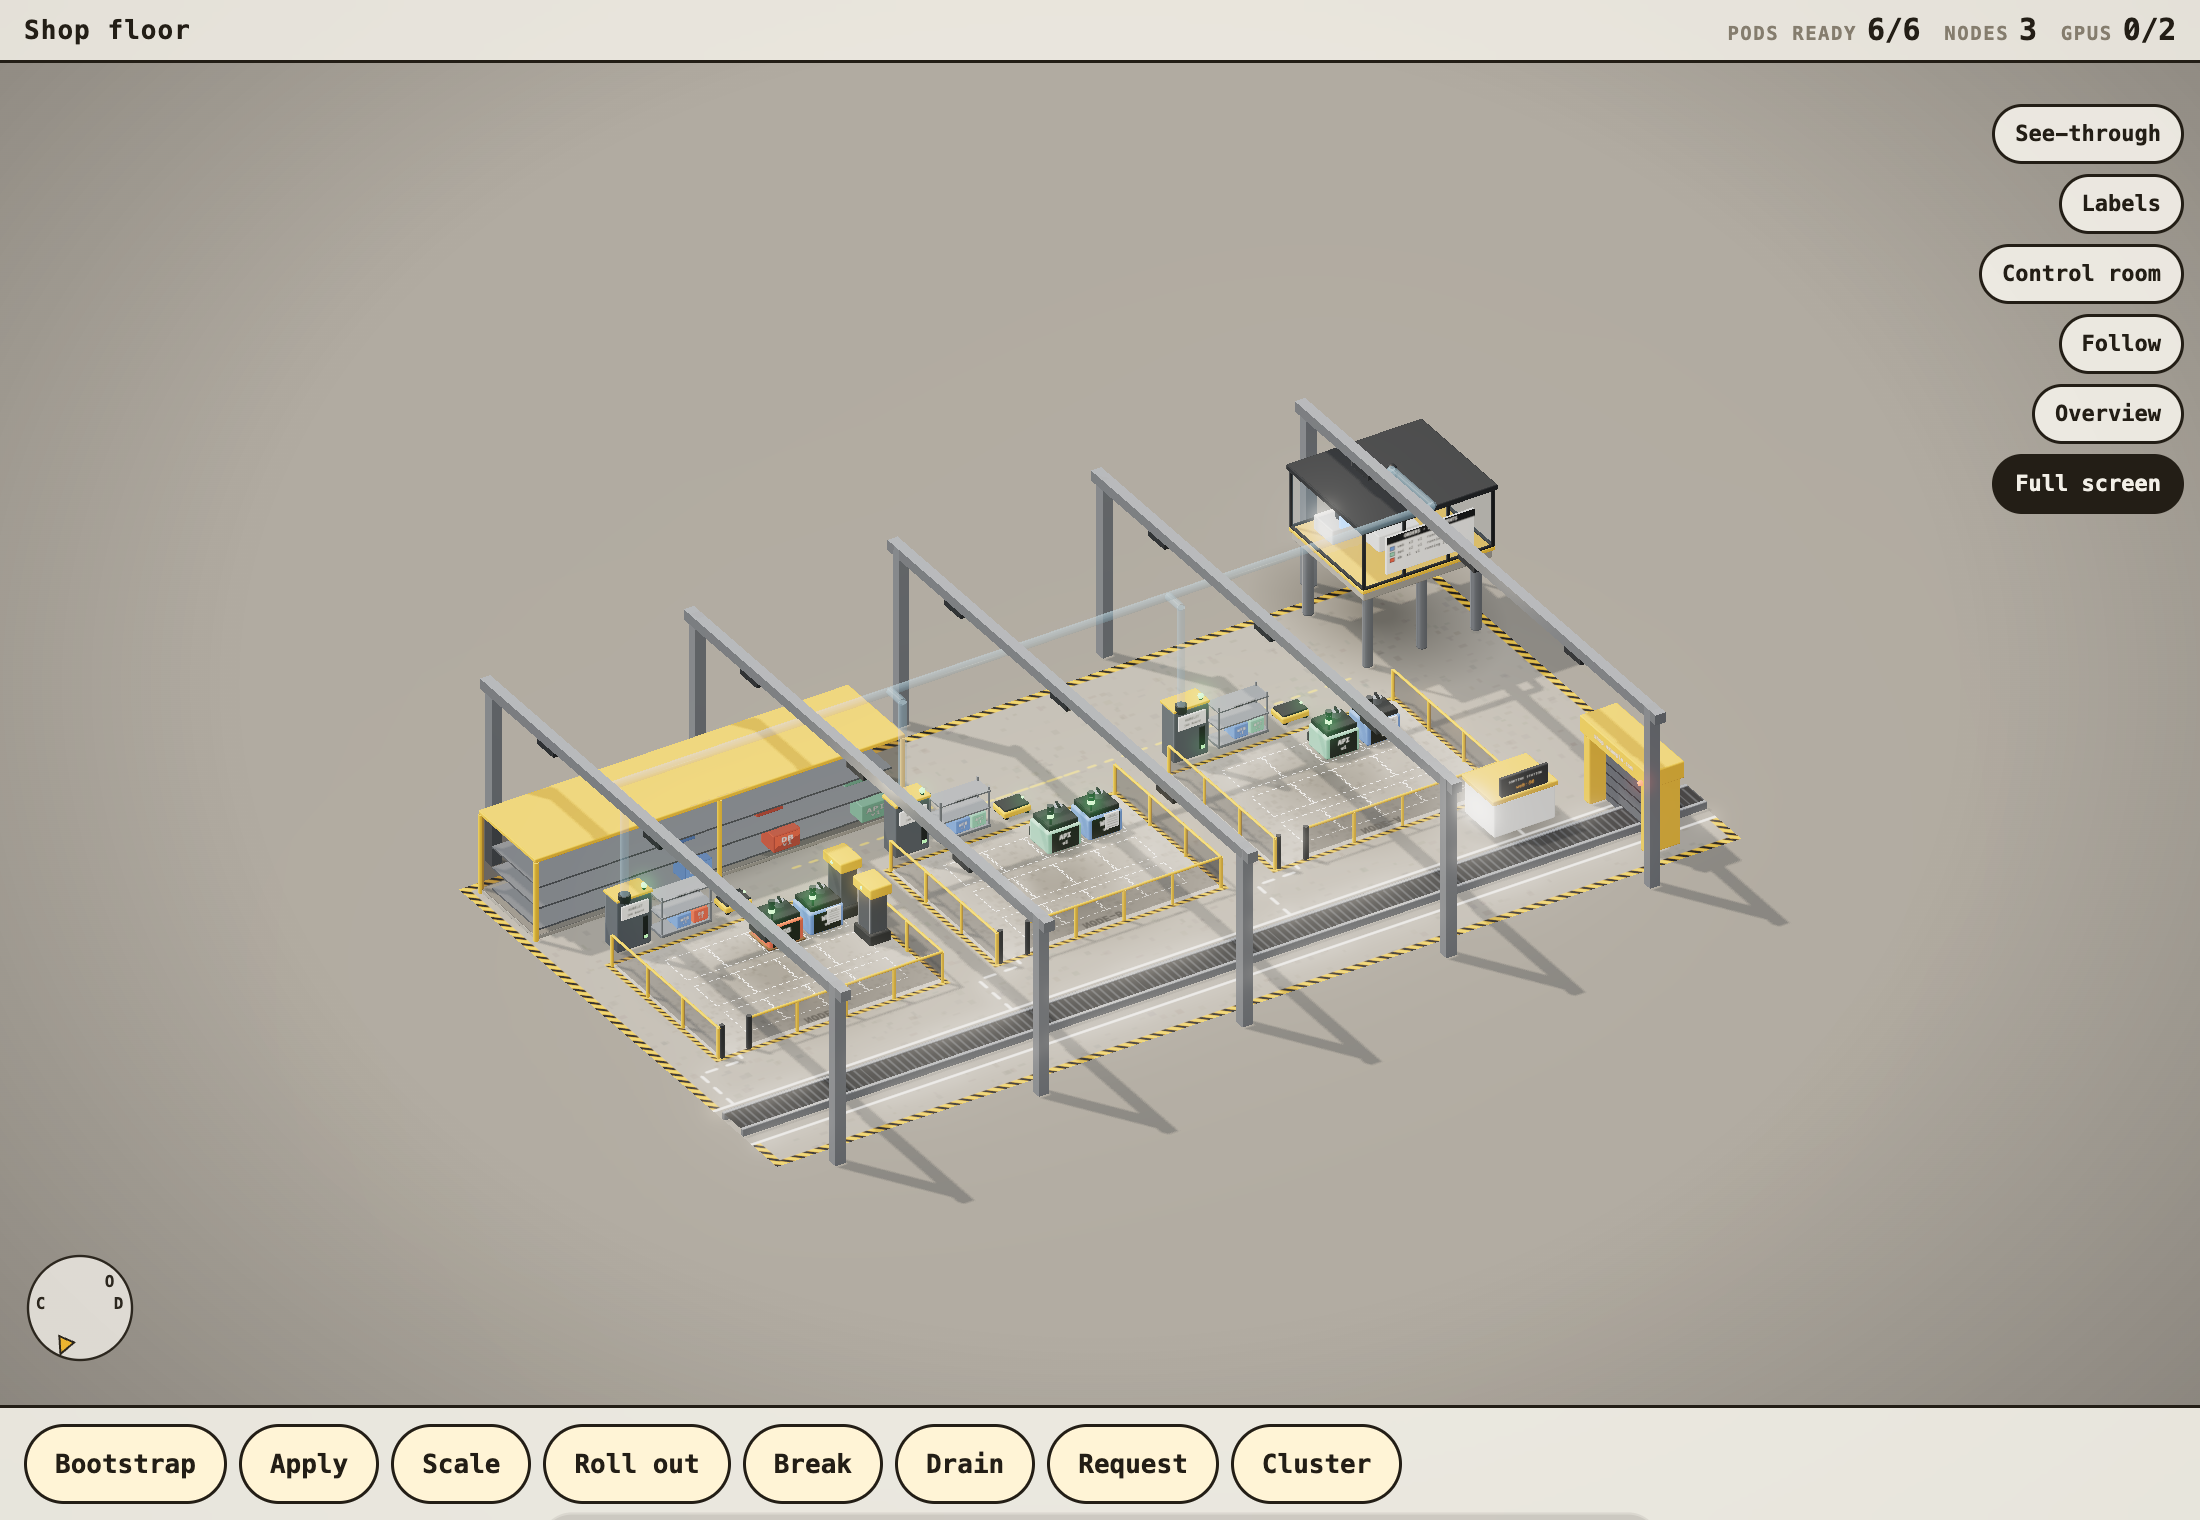
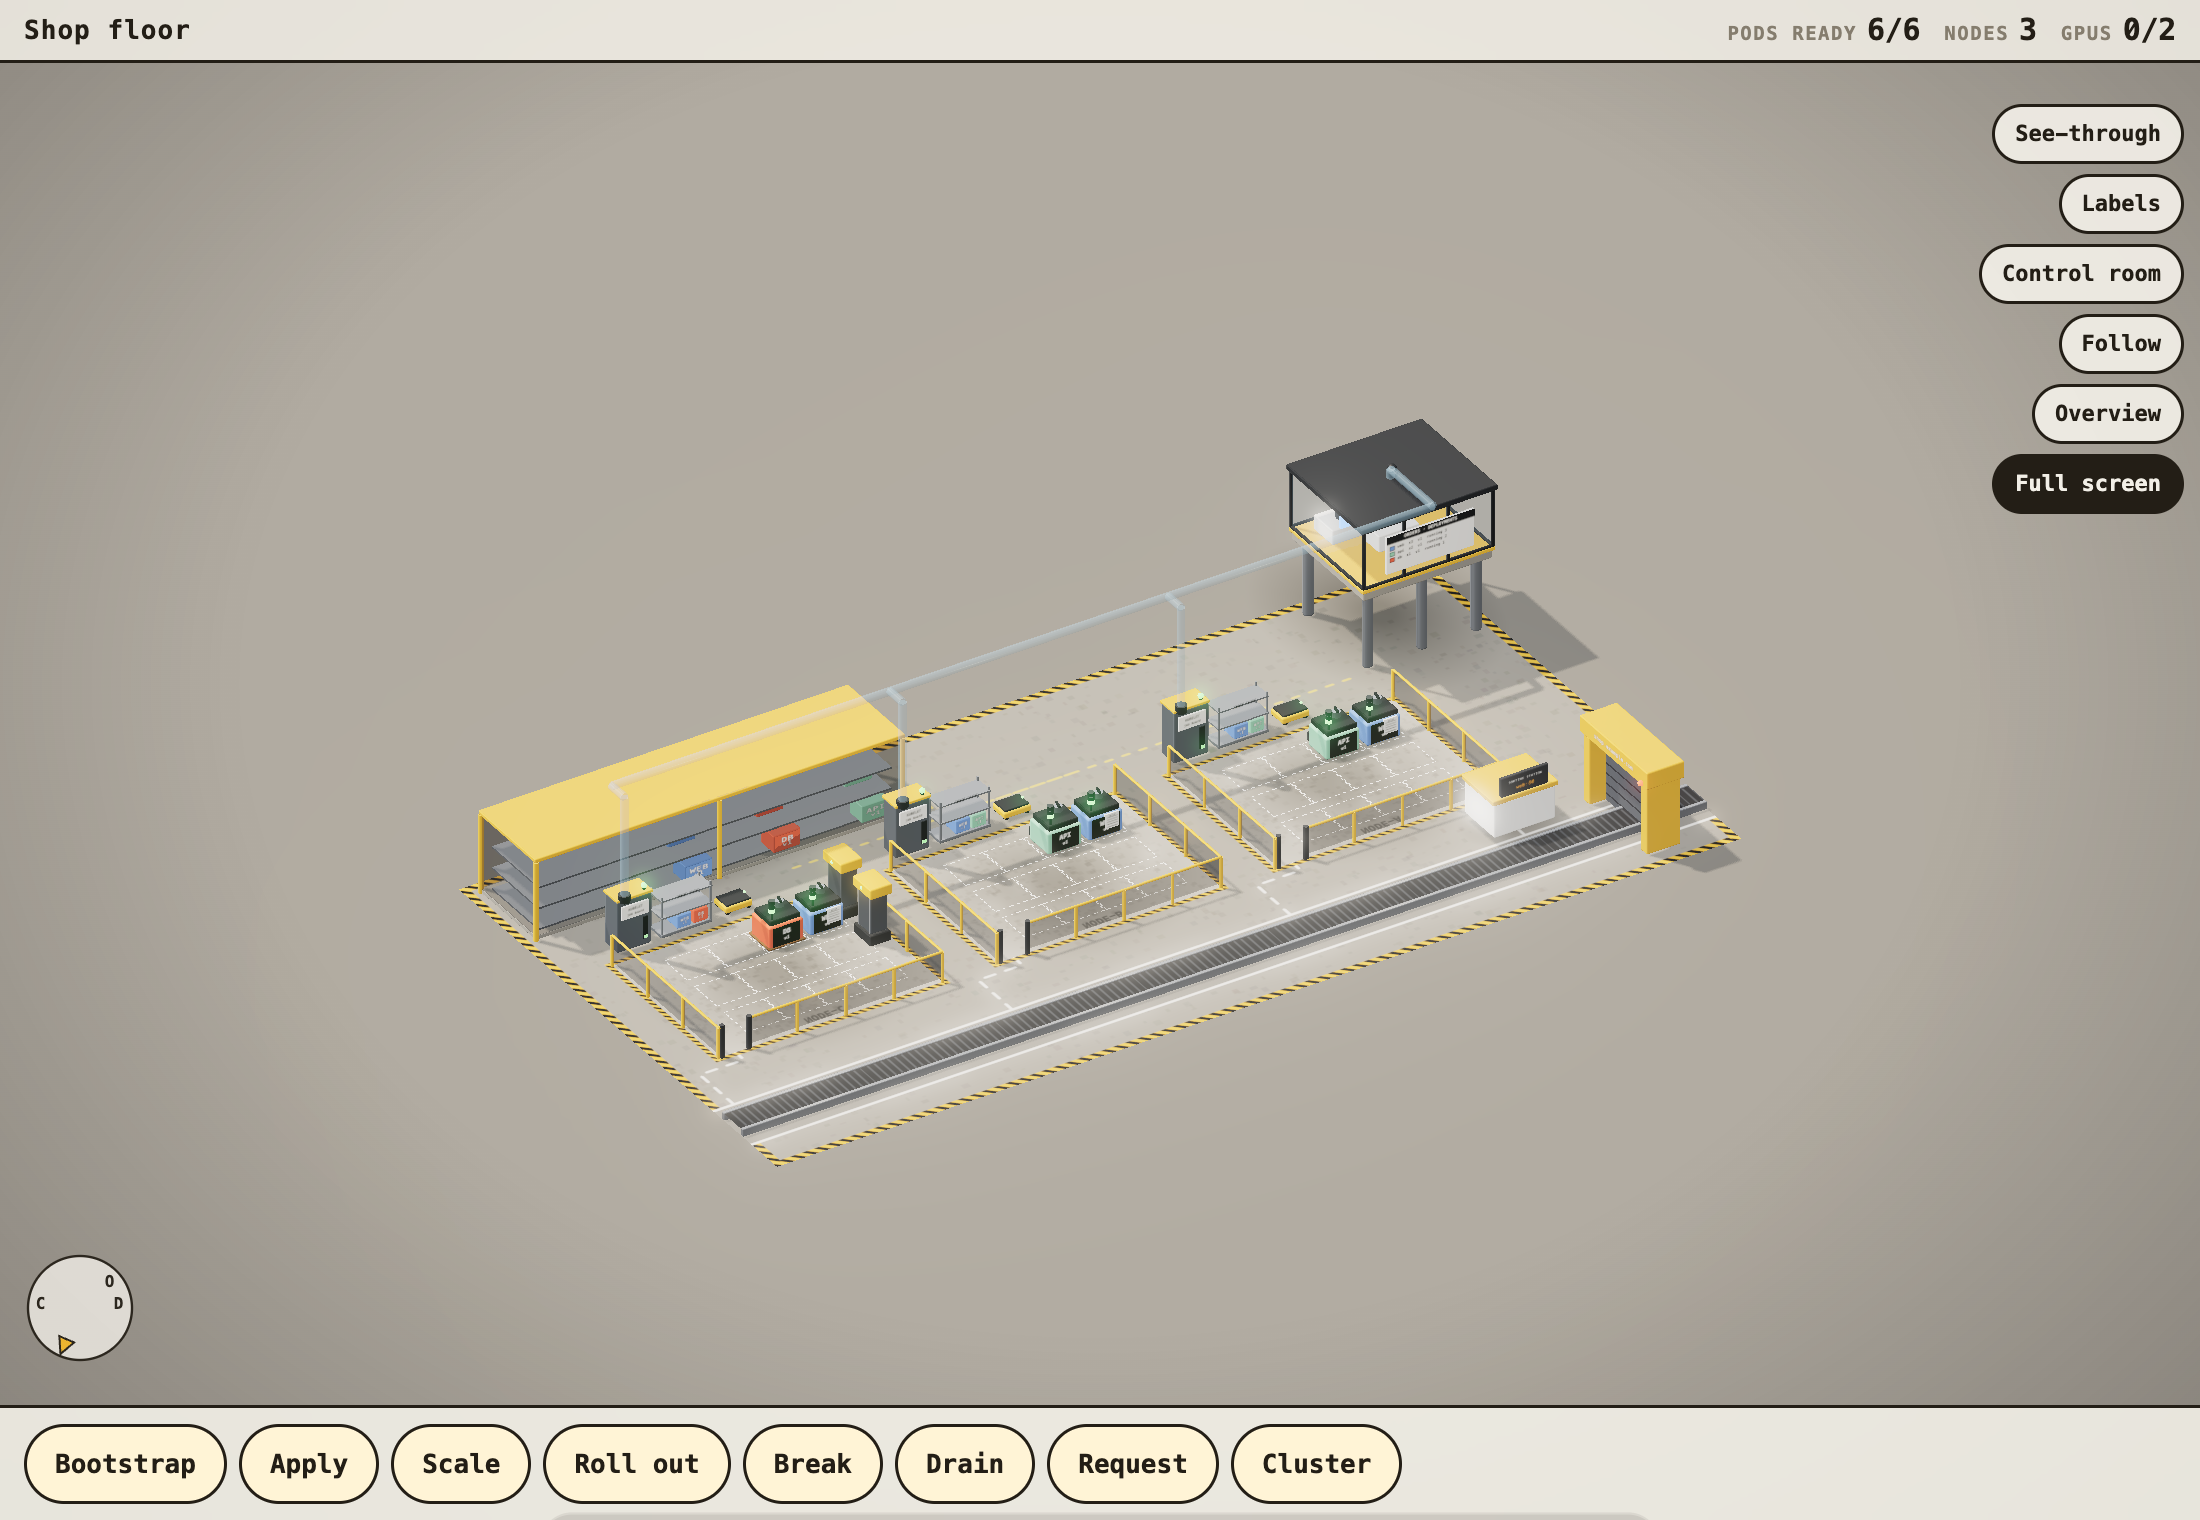
Shop floor: no overhead trusses or lamps; the tube alone runs overhead. README images refreshed

diff --git a/figure/shopfloor.html b/figure/shopfloor.html
@@ -1553,10 +1553,7 @@ function rebuildStatic(){
     line(g, [[W - 30, 45], [W - 44, 45]], WHITE, .8, [3, 3]); }, 4);
   paint.anisotropy = 8;
   const floor = new THREE.Mesh(new THREE.PlaneGeometry(W, D), new THREE.MeshStandardMaterial({ map: paint, roughness: .92, metalness: 0 })); floor.rotation.x = -Math.PI/2; floor.position.copy(V3(W/2, D/2, 0)); floor.receiveShadow = true; S.add(floor);
-  // trusses with lamps across the hall, and the pneumatic tube network along them
-  for (let y = 30; y < D; y += 60){ S.add(box(-10, y - 1.5, TRUSS_Z, W + 10, y + 1.5, TRUSS_Z + 3, M(STEEL, { r: .4, m: .6 }), { r: 0 }));
-    for (let x = 20; x < W; x += 50){ S.add(box(x - 4, y - 1.2, TRUSS_Z - 2.2, x + 4, y + 1.2, TRUSS_Z, M(DARKM, { r: .5 }), { r: .3 })); S.add(box(x - 3.4, y - .8, TRUSS_Z - 2.3, x + 3.4, y + .8, TRUSS_Z - 2.1, M('#fff4dc', { e: 1.8, r: .4 }), { r: 0, shadow: false })); } }
-  for (const x of [-6, W + 6]) for (let y = 30; y < D; y += 60) S.add(box(x - 1.5, y - 1.5, 0, x + 1.5, y + 1.5, TRUSS_Z + 3, M(STEEL, { r: .45, m: .5 }), { r: 0 }));
+  // the pneumatic tube network overhead (the hall's roof is implied; the light comes from above)
   const tubeM = M(GLASS, { a: .32, r: .15, m: .1 }); tubeM.depthWrite = false;
   const trunk = [[OFFICE[0], OFFICE[1], OFFICE[2]], [OFFICE[0], OFFICE[1], TUBE_Z], [TUBE_X, OFFICE[1], TUBE_Z], [TUBE_X, D - 20, TUBE_Z]];
   for (let i = 0; i < trunk.length - 1; i++) S.add(rod(trunk[i], trunk[i + 1], 1.1, tubeM));

diff --git a/src/shop3d.js b/src/shop3d.js
@@ -111,10 +111,7 @@ function rebuildStatic(){
     line(g, [[W - 30, 45], [W - 44, 45]], WHITE, .8, [3, 3]); }, 4);
   paint.anisotropy = 8;
   const floor = new THREE.Mesh(new THREE.PlaneGeometry(W, D), new THREE.MeshStandardMaterial({ map: paint, roughness: .92, metalness: 0 })); floor.rotation.x = -Math.PI/2; floor.position.copy(V3(W/2, D/2, 0)); floor.receiveShadow = true; S.add(floor);
-  // trusses with lamps across the hall, and the pneumatic tube network along them
-  for (let y = 30; y < D; y += 60){ S.add(box(-10, y - 1.5, TRUSS_Z, W + 10, y + 1.5, TRUSS_Z + 3, M(STEEL, { r: .4, m: .6 }), { r: 0 }));
-    for (let x = 20; x < W; x += 50){ S.add(box(x - 4, y - 1.2, TRUSS_Z - 2.2, x + 4, y + 1.2, TRUSS_Z, M(DARKM, { r: .5 }), { r: .3 })); S.add(box(x - 3.4, y - .8, TRUSS_Z - 2.3, x + 3.4, y + .8, TRUSS_Z - 2.1, M('#fff4dc', { e: 1.8, r: .4 }), { r: 0, shadow: false })); } }
-  for (const x of [-6, W + 6]) for (let y = 30; y < D; y += 60) S.add(box(x - 1.5, y - 1.5, 0, x + 1.5, y + 1.5, TRUSS_Z + 3, M(STEEL, { r: .45, m: .5 }), { r: 0 }));
+  // the pneumatic tube network overhead (the hall's roof is implied; the light comes from above)
   const tubeM = M(GLASS, { a: .32, r: .15, m: .1 }); tubeM.depthWrite = false;
   const trunk = [[OFFICE[0], OFFICE[1], OFFICE[2]], [OFFICE[0], OFFICE[1], TUBE_Z], [TUBE_X, OFFICE[1], TUBE_Z], [TUBE_X, D - 20, TUBE_Z]];
   for (let i = 0; i < trunk.length - 1; i++) S.add(rod(trunk[i], trunk[i + 1], 1.1, tubeM));
